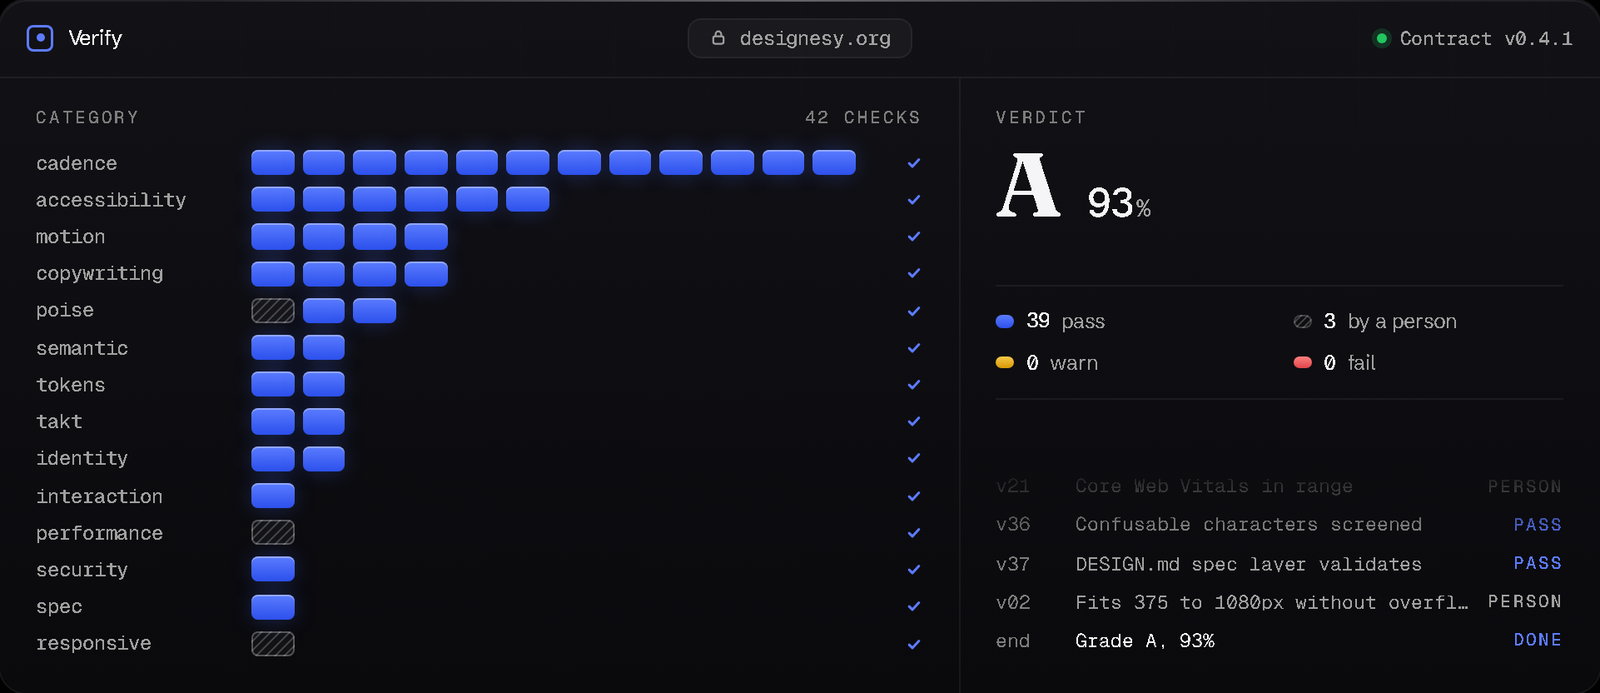
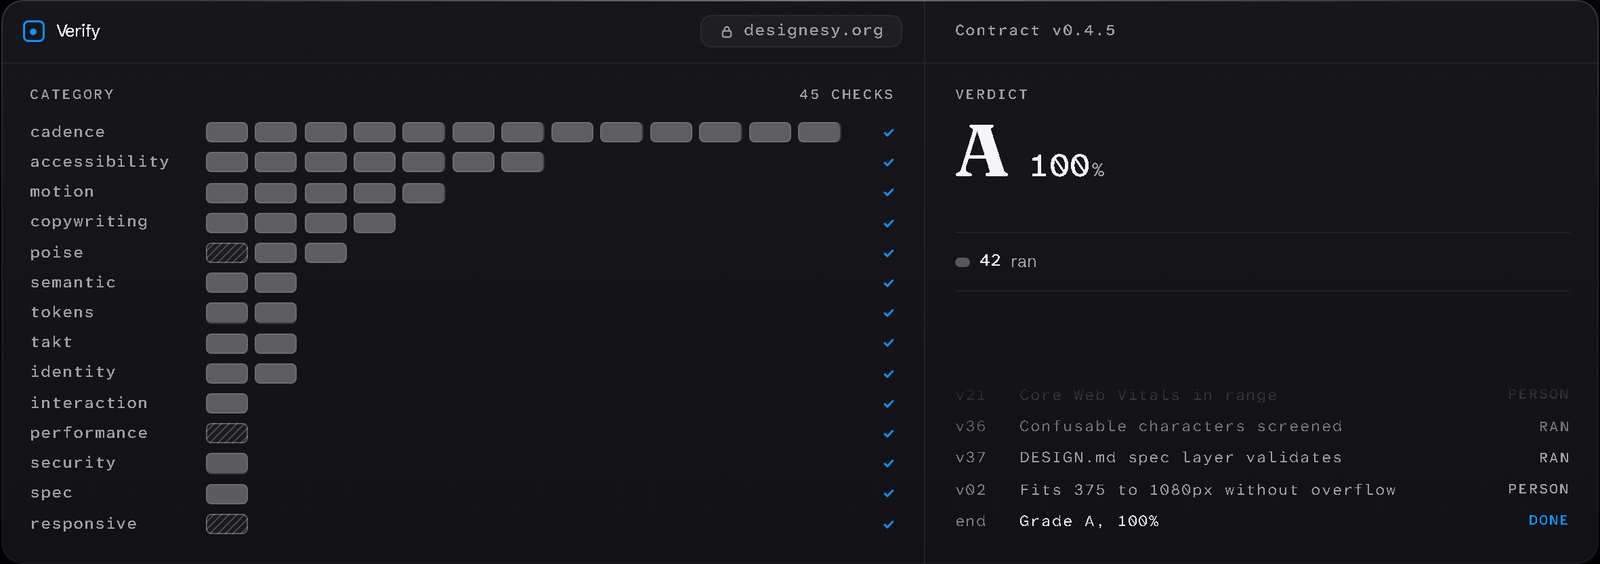
docs(readme): hero loop re-recorded from the live v1 verify console
The hero showed contract v0.4.1, 42 checks and the retired v0 blue. It is
now captured frame by frame from the homepage console (45 checks, contract
v0.4.5, grade A 100%): every CSS animation is paused and stepped through
the Web Animations API, so the 12 s loop is exact (t0 vs t12 diff 0.0) and
H.264 and AV1 seams pass. The alt text drops the earlier-version caveat.

diff --git a/README.md b/README.md
@@ -9,7 +9,7 @@
 
 <picture>
   <source media="(prefers-reduced-motion: reduce)" srcset="docs/media/verify-loop-poster.png">
-  <img src="docs/media/verify-loop.webp" width="800" alt="The verify console scoring designesy.org: one cell per check, in one row per category, lights as each check runs while a log names it, and the verdict lands with the grade and the pass count. Recorded from an earlier contract version; the live console shows the current one.">
+  <img src="docs/media/verify-loop.webp" width="800" alt="The verify console scoring designesy.org against contract v0.4.5. It opens on the verdict, grade A at 100% with 42 checks run, then runs again: one cell per check, in one row per category, lights as each of the 45 checks runs while a log names it, and the verdict lands again. Recorded from the homepage on 2026-10-13.">
 </picture>
 <p><sub>A 12-second loop, recorded from the homepage. It plays once and rests on the verdict, and shows a still frame if you prefer reduced motion. <a href="https://www.designesy.org/">Watch it run on designesy.org</a>.</sub></p>
 
